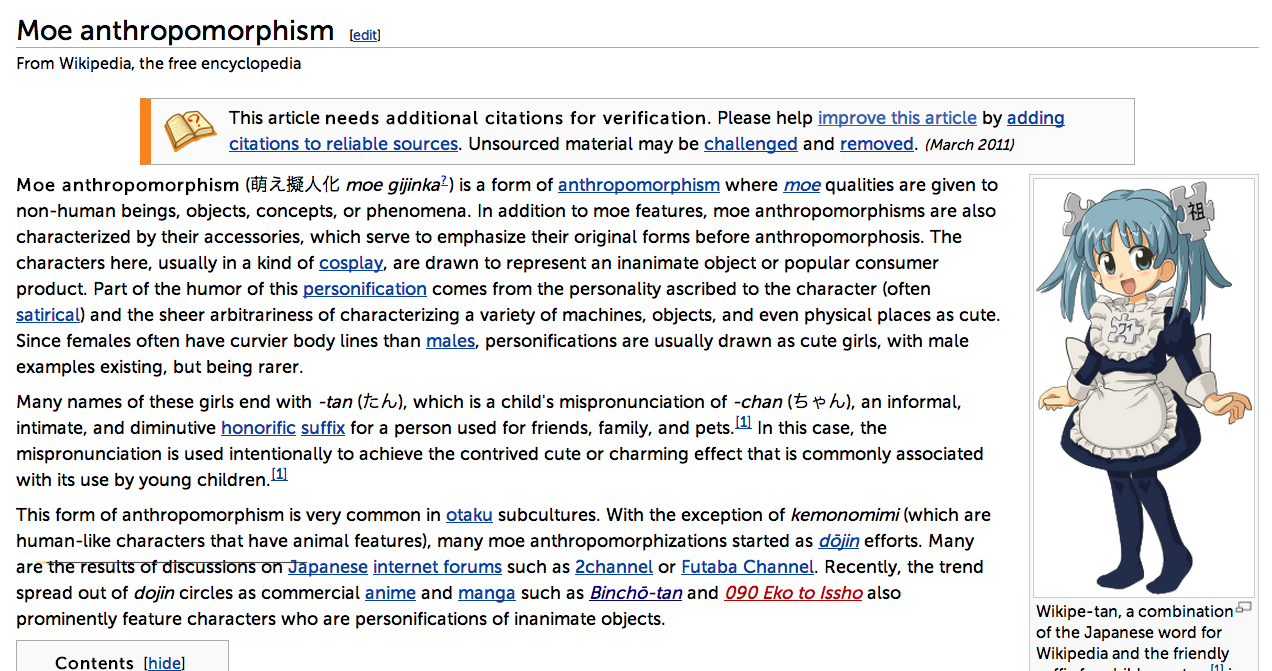
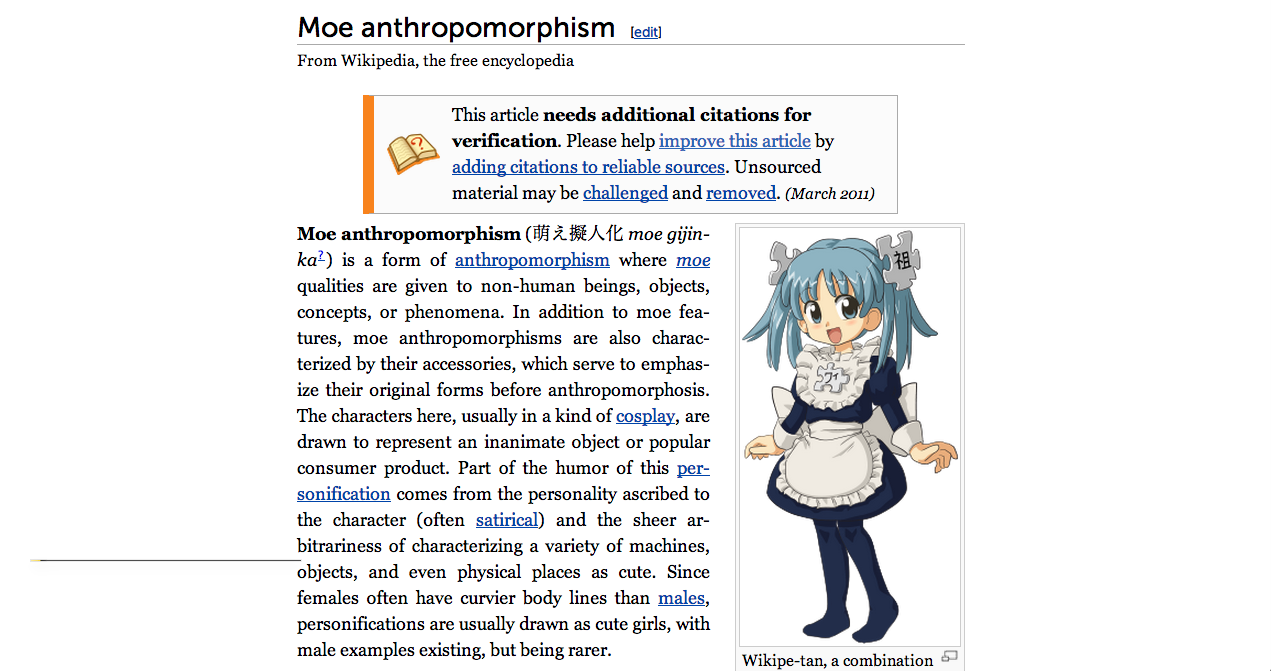
A number of readability improvements.
Serifed body font, larger line-height, and restricted line lengths.

diff --git a/fenikkusu-tan.css b/fenikkusu-tan.css
@@ -1,5 +1,24 @@
 #bodyContent {
+   /* Make the font readably large again. */
   font-size: inherit;
+  /* And serifed.  Because I like serifs better for most body text. */
+  font-family: Georgia, serif;
+  /* Space things out a little bit more. */
+  line-height: 160%;
+}
+
+body {
+   /* Limit the width of the text so your eyes don't have to scan across so
+    * far. */
+   width: 40em;
+   /* And center it. */
+   margin-left: auto;
+   margin-right: auto;
+}
+
+#content {
+   /* Get rid of the stupid blue border that exists for no apparent reason. */
+   border: 0 !important;
 }
 
 
@@ -376,9 +395,6 @@ body {
 div#content {
   margin-left: 0;
   padding: 1em;
-  /* Border on top, left, and bottom side */
-  border: 1px solid #a7d7f9;
-  border-right-width: 0;
   /* Merge the border with tabs' one (in their background image) */
   margin-top: -1px;
   background-color: white;

diff --git a/fenikkusu-tan.js b/fenikkusu-tan.js
@@ -1,0 +1,8 @@
+$(document).ready(function() {
+   // Justify text.
+   var _justify_script=document.createElement('script');
+   _justify_script.type='text/javascript';
+   _justify_script.src='http://github.com/xiongchiamiov/sweet-justice-bookmarklet/raw/master/sweet-justice.js';
+   $('head').append(_justify_script);
+});
+

diff --git a/README.md b/README.md
@@ -30,6 +30,8 @@ http://en.wikipedia.org/wiki/User:Xiong_Chiamiov/vector.css .
 If you're having difficulties finding this, go to [your preferences] and click
 on the "Custom CSS" link.
 
+Then, do the same thing for `fenikkusu-tan.js`.
+
 # License
 
 Available under the [Creative Commons Attribution-ShareAlike license][by-sa].
